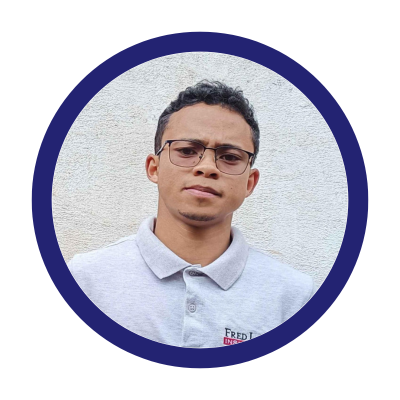
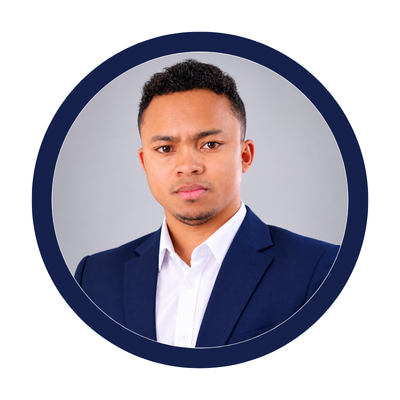
feat: update project detail component and images for 2024

diff --git a/src/Page/ProjectDetail.jsx b/src/Page/ProjectDetail.jsx
@@ -283,8 +283,8 @@ const ProjectDetail = () => {
 		);
 	}
 
-	const { title, description, image, images, year, stack, features, role, github, live_demo } =
-		project;
+	const { title, description, image, images, year, stack, features, role, github } =
+		project; /// live_demo
 
 	return (
 		<div className="pd">
@@ -341,12 +341,12 @@ const ProjectDetail = () => {
 								<FiGithub />
 								{t("project.github")}
 							</a>
-							{live_demo && (
+							{/* {live_demo && (
 								<a href={live_demo} className="btn" target="_blank" rel="noreferrer">
 									<FiExternalLink />
 									{t("project.liveDemo")}
 								</a>
-							)}
+							)} */}
 						</div>
 					</div>
 
@@ -458,13 +458,13 @@ const ProjectDetail = () => {
 									<span>{t("project.github")}</span>
 									<FiExternalLink className="pd-aside__links-out" />
 								</a>
-								{live_demo && (
+								{/* {live_demo && (
 									<a href={live_demo} target="_blank" rel="noreferrer">
 										<FiExternalLink />
 										<span>{t("project.liveDemo")}</span>
 										<FiExternalLink className="pd-aside__links-out" />
 									</a>
-								)}
+								)} */}
 							</div>
 						</div>
 					</div>
